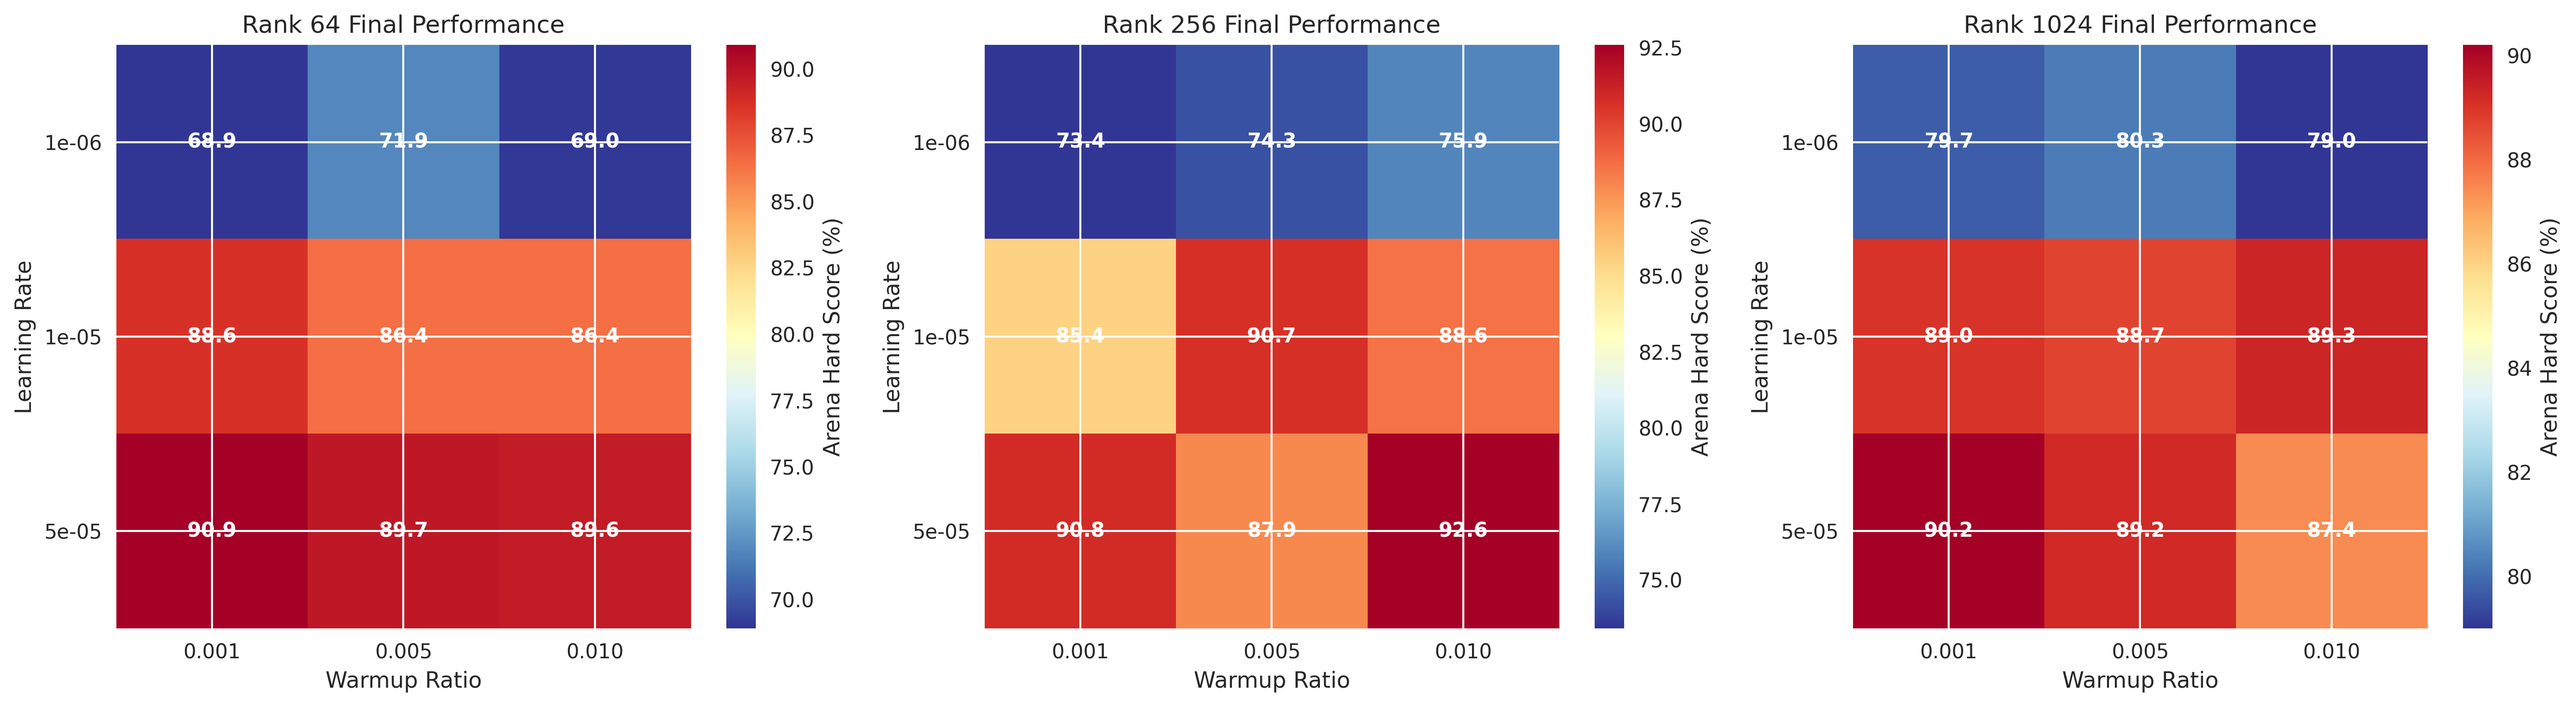
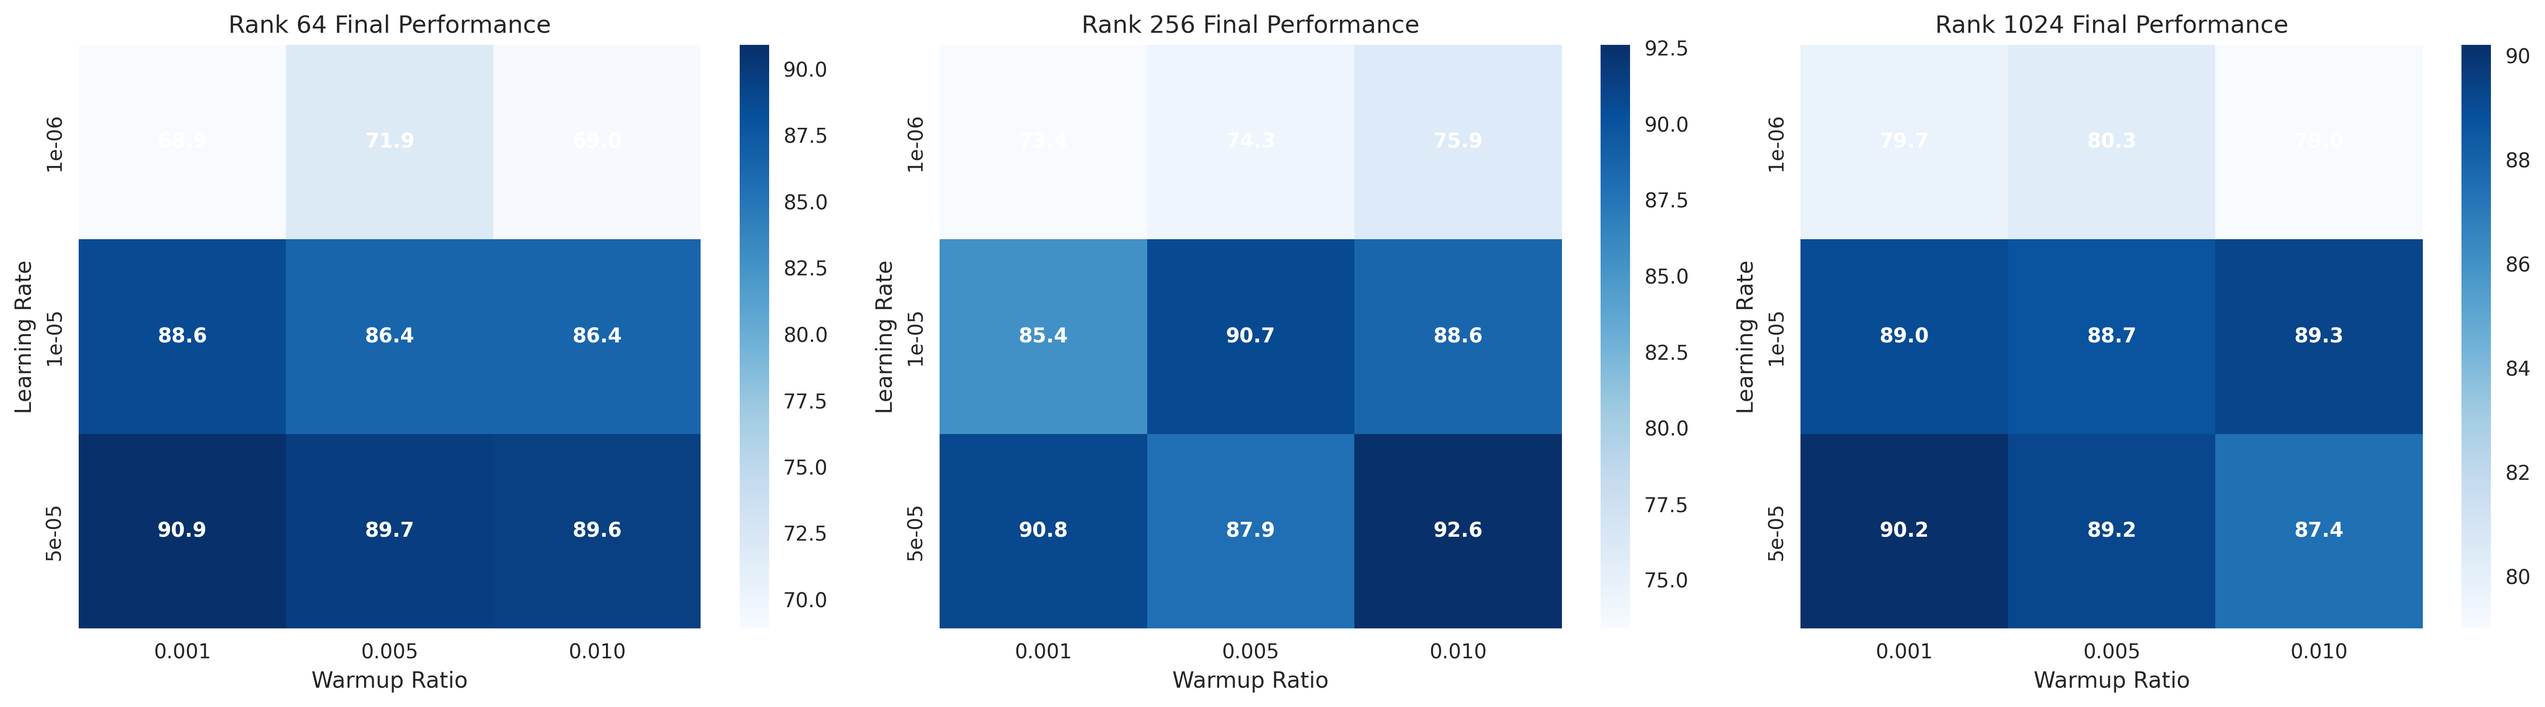
updated plots and performance summary

diff --git a/analysis/analyze_arena_hard_results.py b/analysis/analyze_arena_hard_results.py
@@ -323,29 +323,25 @@ def plot_hyperparameter_heatmap(df, output_dir):
             aggfunc='mean'
         )
         
-        # Create heatmap
-        im = axes[idx].imshow(pivot_data.values, cmap='RdYlBu_r', aspect='auto')
+        # Use seaborn heatmap for better control
+        ax = axes[idx]
+        sns.heatmap(
+            pivot_data,
+            ax=ax,
+            cmap="Blues",
+            annot=True,
+            fmt=".1f",
+            cbar=True,
+            linewidths=0,
+            linecolor=None,
+            annot_kws={"color": "white", "weight": "bold"}
+        )
         
-        # Set labels
-        axes[idx].set_title(f'Rank {int(rank)} Final Performance')
-        axes[idx].set_xlabel('Warmup Ratio')
-        axes[idx].set_ylabel('Learning Rate')
-        
-        # Set tick labels
-        axes[idx].set_xticks(range(len(pivot_data.columns)))
-        axes[idx].set_xticklabels([f'{x:.3f}' for x in pivot_data.columns])
-        axes[idx].set_yticks(range(len(pivot_data.index)))
-        axes[idx].set_yticklabels([f'{x:.0e}' for x in pivot_data.index])
-        
-        # Add colorbar
-        plt.colorbar(im, ax=axes[idx], label='Arena Hard Score (%)')
-        
-        # Add text annotations
-        for i in range(len(pivot_data.index)):
-            for j in range(len(pivot_data.columns)):
-                if pd.notna(pivot_data.values[i, j]):
-                    axes[idx].text(j, i, f'{pivot_data.values[i, j]:.1f}', 
-                                 ha='center', va='center', color='white', fontweight='bold')
+        ax.set_title(f'Rank {int(rank)} Final Performance')
+        ax.set_xlabel('Warmup Ratio')
+        ax.set_ylabel('Learning Rate')
+        ax.set_xticklabels([f'{x:.3f}' for x in pivot_data.columns])
+        ax.set_yticklabels([f'{x:.0e}' for x in pivot_data.index])
     
     plt.tight_layout()
     plt.savefig(f'{output_dir}/hyperparameter_heatmap.png', dpi=300, bbox_inches='tight')
@@ -524,19 +520,16 @@ def plot_learning_rate_effect(df, output_dir):
 
 def create_summary_table(df, output_dir):
     """Create summary statistics table"""
-    
+    import io
+    import csv
     baseline_score = df['baseline_score'].iloc[0] if not df.empty else 50.0
-    
     # Best overall performance
     best_overall = df.loc[df['score'].idxmax()]
-    
     # Best per rank
     best_per_rank = df.groupby('rank').apply(lambda x: x.loc[x['score'].idxmax()]).reset_index(drop=True)
-    
     # Default vs best tuned comparison
     default_final = df[(df['is_default']) & (df['is_final'])]
     tuned_final = df[(~df['is_default']) & (df['is_final'])]
-    
     summary_stats = {
         'Baseline (llama3.1-8b)': {
             'Score': f"{baseline_score:.1f}%",
@@ -554,7 +547,6 @@ def create_summary_table(df, output_dir):
             'Warmup Ratio': best_overall['warmup_ratio']
         }
     }
-    
     for _, row in best_per_rank.iterrows():
         rank = row['rank']
         if pd.notna(rank):
@@ -565,30 +557,37 @@ def create_summary_table(df, output_dir):
                 'Learning Rate': row['learning_rate'],
                 'Warmup Ratio': row['warmup_ratio']
             }
-    
     # Save to CSV
     summary_df = pd.DataFrame(summary_stats).T
-    summary_df.to_csv(f'{output_dir}/performance_summary.csv')
-    
-    print("\n=== PERFORMANCE SUMMARY vs llama3.1-8b ===")
-    print(summary_df.to_string())
-    
+    csv_path = f'{output_dir}/performance_summary.csv'
+    summary_df.to_csv(csv_path)
+    # Prepare the printed summary as a string
+    output = io.StringIO()
+    print("\n=== PERFORMANCE SUMMARY vs llama3.1-8b ===", file=output)
+    print(summary_df.to_string(), file=output)
     if not default_final.empty and not tuned_final.empty:
-        print(f"\nBaseline (llama3.1-8b): {baseline_score:.1f}%")
-        print(f"Default Tuned Performance (avg): {default_final['score'].mean():.1f}% (+{default_final['improvement_over_baseline'].mean():.1f}pp)")
-        print(f"Best Tuned Performance (avg): {tuned_final['score'].mean():.1f}% (+{tuned_final['improvement_over_baseline'].mean():.1f}pp)")
-        print(f"Best vs Default improvement: {tuned_final['score'].mean() - default_final['score'].mean():.1f} percentage points")
-    
-    # Add improvement analysis
-    print(f"\n=== IMPROVEMENT ANALYSIS ===")
-    print(f"Best overall improvement: +{best_overall['improvement_over_baseline']:.1f}pp ({best_overall['model_name']})")
-    
-    # Rank-wise improvements
+        print(f"\nBaseline (llama3.1-8b): {baseline_score:.1f}%", file=output)
+        print(f"Default Tuned Performance (avg): {default_final['score'].mean():.1f}% (+{default_final['improvement_over_baseline'].mean():.1f}pp)", file=output)
+        print(f"Best Tuned Performance (avg): {tuned_final['score'].mean():.1f}% (+{tuned_final['improvement_over_baseline'].mean():.1f}pp)", file=output)
+        print(f"Best vs Default improvement: {tuned_final['score'].mean() - default_final['score'].mean():.1f} percentage points", file=output)
+    print(f"\n=== IMPROVEMENT ANALYSIS ===", file=output)
+    print(f"Best overall improvement: +{best_overall['improvement_over_baseline']:.1f}pp ({best_overall['model_name']})", file=output)
     for rank in sorted(df['rank'].unique()):
         if pd.notna(rank):
             rank_data = df[df['rank'] == rank]
             best_rank = rank_data.loc[rank_data['score'].idxmax()]
-            print(f"Best Rank {int(rank)} improvement: +{best_rank['improvement_over_baseline']:.1f}pp ({best_rank['model_name']})")
+            print(f"Best Rank {int(rank)} improvement: +{best_rank['improvement_over_baseline']:.1f}pp ({best_rank['model_name']})", file=output)
+    # Append the summary string to the CSV file as a comment block
+    with open(csv_path, 'a') as f:
+        f.write('\n#\n')
+        for line in output.getvalue().splitlines():
+            f.write(f'# {line}\n')
+    # Save the summary as a .txt file for better formatting
+    txt_path = f'{output_dir}/performance_summary.txt'
+    with open(txt_path, 'w') as f:
+        f.write(output.getvalue())
+    # Also print to terminal as before
+    print(output.getvalue())
 
 def main():
     parser = argparse.ArgumentParser(description='Analyze Arena Hard results')
